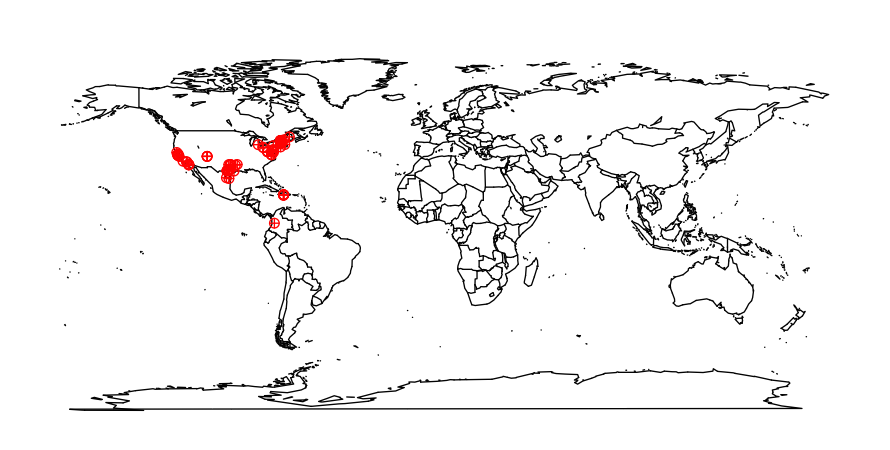
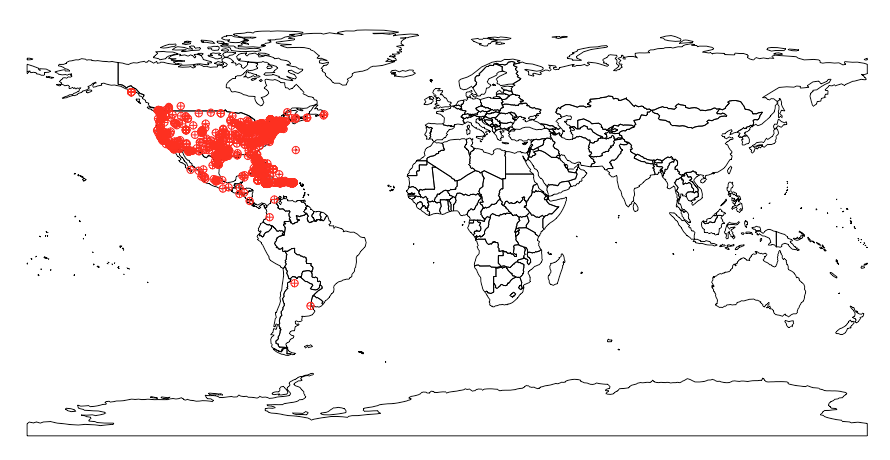
updated spocc blog post from 2014-03-17, ropensci/roweb#163

diff --git a/_posts/2014-03-17-spocc.md b/_posts/2014-03-17-spocc.md
@@ -3,8 +3,7 @@ name: spocc
 layout: post
 title: Species occurrence data
 date: 2014-03-17
-authors:
-  - name: Karthik Ram
+author: Karthik Ram
 tags:
 - R
 - API
@@ -13,6 +12,10 @@ tags:
 - occurrence
 ---
 
+<div class="alert alert-info" role="alert">
+UPDATE: mapping functions are in a separate package now (<a href="https://cran.rstudio.com/web/packages/mapr">mapr</a>). Examples that do mapping below have been updated.
+</div>
+
 The rOpenSci projects aims to provide programmatic access to scientific data repositories on the web. A vast majority of the packages in our current suite retrieve some form of biodiversity or taxonomic data. Since several of these datasets have been georeferenced, it provides numerous opportunities for visualizing species distributions, building species distribution maps, and for using it analyses such as species distribution models. In an effort to streamline access to these data, we have developed a package called Spocc, which provides a unified API to all the biodiversity sources that we provide. The obvious advantage is that a user can interact with a common API and not worry about the nuances in syntax that differ between packages. As more data sources come online, users can access even more data without significant changes to their code. However, it is important to note that spocc will never replicate the full functionality that exists within specific packages. Therefore users with a strong interest in one of the specific data sources listed below would benefit from familiarising themselves with the inner working of the appropriate packages.
 
 
@@ -20,10 +23,10 @@ The rOpenSci projects aims to provide programmatic access to scientific data rep
 
 `spocc` currently interfaces with five major biodiversity repositories. Many of these packages have been part of the rOpenSci suite:
 
-1. Global Biodiversity Information Facility (`rgbif`)  
+1. Global Biodiversity Information Facility (`rgbif`)
 [GBIF](http://www.gbif.org/) is a government funded open data repository with several partner organizations with the express goal of providing access to data on Earth's biodiversity. The data are made available by a network of member nodes, coordinating information from various participant organizations and government agencies.
 
-2. [Berkeley Ecoengine](http://ecoengine.berkeley.edu/) (`ecoengine`)  
+2. [Berkeley Ecoengine](http://ecoengine.berkeley.edu/) (`ecoengine`)
 The ecoengine is an open API built by the [Berkeley Initiative for Global Change Biology](http://globalchange.berkeley.edu/). The repository provides access to over 3 million specimens from various Berkeley natural history museums. These data span more than a century and provide access to georeferenced specimens, species checklists, photographs, vegetation surveys and resurveys and a variety of measurements from environmental sensors located at reserves across University of California's natural reserve system. ([related blog post](http://ropensci.org/blog/2014/01/30/ecoengine/))
 
 3. __iNaturalist__ (`rinat`)
@@ -32,17 +35,16 @@ iNaturalist provides access to crowd sourced citizen science data on species obs
 4. [VertNet](http://vertnet.org/index.php) (`rvertnet`)
 Similar to `rgbif`, ecoengine, and `rbison` (see below), VertNet provides access to more than 80 million vertebrate records spanning a large number of institutions and museums primarly covering four major disciplines (mammology, herpetology, ornithology, and icthyology). __Note that we don't currenlty support VertNet data in this package, but we should soon__
 
-5. [Biodiversity Information Serving Our Nation](http://bison.usgs.ornl.gov/) (`rbison`)  
+5. [Biodiversity Information Serving Our Nation](http://bison.usgs.ornl.gov/) (`rbison`)
 Built by the US Geological Survey's core science analytic team, BISON is a portal that provides access to species occurrence data from several participating institutions.
 
-6. [eBird](http://ebird.org/content/ebird/) (`rebird`)  
+6. [eBird](http://ebird.org/content/ebird/) (`rebird`)
 ebird is a database developed and maintained by the Cornell Lab of Ornithology and the National Audubon Society. It provides real-time access to checklist data, data on bird abundance and distribution, and communtiy reports from birders.
 
-7. [AntWeb](http://antweb.org) (`AntWeb`)  
+7. [AntWeb](http://antweb.org) (`AntWeb`)
 AntWeb is the world's largest online database of images, specimen records, and natural history information on ants. It is community driven and open to contribution from anyone with specimen records, natural history comments, or images. ([related blog post](http://ropensci.org/blog/2014/02/18/antweb/))
 
 __Note:__ It's important to keep in mind that several data providers interface with many of the above mentioned repositories. This means that occurence data obtained from BISON may be duplicates of data that are also available through GBIF. We do not have a way to resolve these duplicates or overlaps at this time but it is an issue we are hoping to address in future versions of the package.
-
 
 
 
@@ -57,6 +59,10 @@ library(spocc)
 ```
 
 
+```r
+library("spocc")
+```
+
 ## Searching species occurrence data
 
 The main workhorse function of the package is called `occ`. The function allows you to search for occurrence records on a single species or list of species and from particular sources of interest or several. The main input is a `query` with sources specified under the argument `from`. So to look at a really simply query:
@@ -68,15 +74,11 @@ results
 ```
 
 ```
-#> Summary of results - occurrences found for:
-#>  gbif  : 25 records across 1 species
-#>  bison :  0 records across 1 species
-#>  inat  :  0 records across 1 species
-#>  ebird :  0 records across 1 species
-#>  ecoengine :  0 records across 1 species
-#>  antweb :  0 records across 1 species
+#> Searched: gbif
+#> Occurrences - Found: 529,471, Returned: 500
+#> Search type: Scientific
+#>   gbif: Accipiter striatus (500)
 ```
-
 
 This returns the results as an S3 class with a slot for each data source. Since we only requested data from `gbif`, the remaining slots are empty. To view the data:
 
@@ -86,53 +88,56 @@ results$gbif
 ```
 
 ```
-#> $meta
-#> $meta$source
-#> [1] "gbif"
+#> Species [Accipiter striatus (500)]
+#> First 10 rows of [Accipiter_striatus]
 #>
-#> $meta$time
-#> [1] "2014-03-16 17:39:31.716 PDT"
+#> Source: local data frame [500 x 117]
 #>
-#> $meta$query
-#> [1] "Accipiter striatus"
-#>
-#> $meta$type
-#> [1] "sci"
-#>
-#> $meta$opts
-#> list()
-#>
-#>
-#> $data
-#> $data$Accipiter_striatus
-#>                  name       key longitude latitude prov
-#> 1  Accipiter striatus 891040018    -97.65   30.158 gbif
-#> 2  Accipiter striatus 891040169   -122.44   37.490 gbif
-#> 3  Accipiter striatus 891035119    -71.73   18.270 gbif
-#> 4  Accipiter striatus 891035349    -72.53   43.132 gbif
-#> 5  Accipiter striatus 891038901    -97.20   32.860 gbif
-#> 6  Accipiter striatus 891048899    -73.07   43.632 gbif
-#> 7  Accipiter striatus 891049443    -99.10   26.491 gbif
-#> 8  Accipiter striatus 891050439    -97.88   26.102 gbif
-#> 9  Accipiter striatus 891043765    -76.64   41.856 gbif
-#> 10 Accipiter striatus 891056214   -117.15   32.704 gbif
-#> 11 Accipiter striatus 891054792    -73.24   44.315 gbif
-#> 12 Accipiter striatus 768992325    -76.10    4.724 gbif
-#> 13 Accipiter striatus 859267562   -108.34   36.732 gbif
-#> 14 Accipiter striatus 859267548   -108.34   36.732 gbif
-#> 15 Accipiter striatus 859267717   -108.34   36.732 gbif
-#> 16 Accipiter striatus 891043784    -73.05   43.605 gbif
-#> 17 Accipiter striatus 891118711   -122.18   37.786 gbif
-#> 18 Accipiter striatus 891116600    -97.32   32.821 gbif
-#> 19 Accipiter striatus 891124493   -117.11   32.632 gbif
-#> 20 Accipiter striatus 891125442   -122.88   38.612 gbif
-#> 21 Accipiter striatus 891127900   -122.36   37.778 gbif
-#> 22 Accipiter striatus 891128609    -97.98   32.761 gbif
-#> 23 Accipiter striatus 891121966    -76.55   38.672 gbif
-#> 24 Accipiter striatus 868487120    -83.83   42.333 gbif
-#> 25 Accipiter striatus 891131416    -72.59   43.853 gbif
+#>                  name  longitude latitude  prov                 issues
+#>                 <chr>      <dbl>    <dbl> <chr>                  <chr>
+#> 1  Accipiter striatus  -97.94314 30.04580  gbif         cdround,gass84
+#> 2  Accipiter striatus -122.40089 37.49201  gbif         cdround,gass84
+#> 3  Accipiter striatus  -97.63810 30.24674  gbif    cdround,cudc,gass84
+#> 4  Accipiter striatus  -81.85267 28.81852  gbif                 gass84
+#> 5  Accipiter striatus -106.31531 31.71593  gbif         cdround,gass84
+#> 6  Accipiter striatus  -97.81493 26.03150  gbif cdround,cucdmis,gass84
+#> 7  Accipiter striatus  -95.50117 29.76086  gbif         cdround,gass84
+#> 8  Accipiter striatus -116.67145 32.94147  gbif         cdround,gass84
+#> 9  Accipiter striatus  -96.91463 32.82949  gbif         cdround,gass84
+#> 10 Accipiter striatus  -75.65139 45.44557  gbif         cdround,gass84
+#> ..                ...        ...      ...   ...                    ...
+#> Variables not shown: key <int>, datasetKey <chr>, publishingOrgKey <chr>,
+#>   publishingCountry <chr>, protocol <chr>, lastCrawled <chr>, lastParsed
+#>   <chr>, extensions <chr>, basisOfRecord <chr>, taxonKey <int>, kingdomKey
+#>   <int>, phylumKey <int>, classKey <int>, orderKey <int>, familyKey <int>,
+#>   genusKey <int>, speciesKey <int>, scientificName <chr>, kingdom <chr>,
+#>   phylum <chr>, order <chr>, family <chr>, genus <chr>, species <chr>,
+#>   genericName <chr>, specificEpithet <chr>, taxonRank <chr>,
+#>   dateIdentified <chr>, coordinateUncertaintyInMeters <dbl>, year <int>,
+#>   month <int>, day <int>, eventDate <date>, modified <chr>,
+#>   lastInterpreted <chr>, references <chr>, identifiers <chr>, facts <chr>,
+#>   relations <chr>, geodeticDatum <chr>, class <chr>, countryCode <chr>,
+#>   country <chr>, rightsHolder <chr>, identifier <chr>, informationWithheld
+#>   <chr>, verbatimEventDate <chr>, datasetName <chr>, verbatimLocality
+#>   <chr>, collectionCode <chr>, gbifID <chr>, occurrenceID <chr>, taxonID
+#>   <chr>, license <chr>, catalogNumber <chr>, recordedBy <chr>,
+#>   http...unknown.org.occurrenceDetails <chr>, institutionCode <chr>,
+#>   rights <chr>, eventTime <chr>, identificationID <chr>, occurrenceRemarks
+#>   <chr>, individualCount <int>, elevation <dbl>, elevationAccuracy <dbl>,
+#>   continent <chr>, stateProvince <chr>, institutionID <chr>, county <chr>,
+#>   identificationVerificationStatus <chr>, language <chr>, type <chr>,
+#>   locationAccordingTo <chr>, preparations <chr>, identifiedBy <chr>,
+#>   georeferencedDate <chr>, higherGeography <chr>, nomenclaturalCode <chr>,
+#>   georeferencedBy <chr>, georeferenceProtocol <chr>, endDayOfYear <chr>,
+#>   georeferenceVerificationStatus <chr>, locality <chr>,
+#>   verbatimCoordinateSystem <chr>, otherCatalogNumbers <chr>, organismID
+#>   <chr>, previousIdentifications <chr>, identificationQualifier <chr>,
+#>   samplingProtocol <chr>, accessRights <chr>, higherClassification <chr>,
+#>   georeferenceSources <chr>, sex <chr>, establishmentMeans <chr>,
+#>   occurrenceStatus <chr>, disposition <chr>, startDayOfYear <chr>,
+#>   dynamicProperties <chr>, infraspecificEpithet <chr>, georeferenceRemarks
+#>   <chr>, and 12 more <...>.
 ```
-
 If you prefer data from more than one source, simply pass a vector of source names for the `from` argument. Example:
 
 
@@ -141,15 +146,12 @@ occ(query = 'Accipiter striatus', from = c('ecoengine', 'gbif'))
 ```
 
 ```
-#> Summary of results - occurrences found for:
-#>  gbif  : 25 records across 1 species
-#>  bison :  0 records across 1 species
-#>  inat  :  0 records across 1 species
-#>  ebird :  0 records across 1 species
-#>  ecoengine :  25 records across 1 species
-#>  antweb :  0 records across 1 species
+#> Searched: ecoengine, gbif
+#> Occurrences - Found: 530,224, Returned: 1,000
+#> Search type: Scientific
+#>   gbif: Accipiter striatus (500)
+#>   ecoengine: Accipiter striatus (500)
 ```
-
 
 We can also search for multiple species across multiple engines.
 
@@ -158,7 +160,6 @@ We can also search for multiple species across multiple engines.
 species_list <- c("Accipiter gentilis", "Accipiter poliogaster", "Accipiter badius")
 res_set <- occ(species_list, from = c('gbif', 'ecoengine'))
 ```
-
 
 Similarly, we can search for data on the Sharp-shinned Hawk from other data sources too.
 
@@ -171,8 +172,7 @@ occ(query = 'Bison bison', from = 'bison')
 occ(query = "acanthognathus brevicornis", from = "antweb")
 ```
 
-
-`occ` is also extremely flexible and can take package specific arguments for any source you might be querying. You can pass these as a list under `pacakge_name_opts` (e.g. `antweb_opts`, `ecoengine_opts`). See the help file for `?occ` for more information.
+`occ` is also extremely flexible and can take package specific arguments for any source you might be querying. You can pass these as a list under `package_name_opts` (e.g. `antweb_opts`, `ecoengine_opts`). See the help file for `?occ` for more information.
 
 
 ## Visualizing biodiversity data
@@ -181,16 +181,17 @@ We provide several methods to visualize the resulting data. Current options incl
 
 __Mapping with Leaflet__
 
+> UPDATE: mapping functions are in a separate package called `mapr`. Eg below updated
+
 
 ```r
 spp <- c("Danaus plexippus", "Accipiter striatus", "Pinus contorta")
-dat <- occ(query = spp, from = "gbif", gbifopts = list(georeferenced = TRUE))
-# occ2df, as the name suggests converts data contained inside an occ class to a R data.frame
-data <- occ2df(dat)
-mapleaflet(data = data, dest = ".")
+dat <- occ(query = spp, from = "gbif", has_coords = TRUE, limit = 50)
+library("mapr")
+map_leaflet(dat)
 ```
 
-![](/assets/blog-images/2014-03-17-spocc/leaflet_map.png)
+![leaflet_map](/assets/blog-images/2014-03-17-spocc/leaflet_map.png)
 
 __Render a geojson file automatically as a GitHub gist__
 
@@ -199,13 +200,13 @@ To have a map automatically posted as a gist, you'll need to set up your GitHub 
 
 ```r
 spp <- c("Danaus plexippus", "Accipiter striatus", "Pinus contorta")
-dat <- occ(query = spp, from = "gbif", gbifopts = list(georeferenced = TRUE))
+dat <- occ(query = spp, from = "gbif", has_coords = TRUE)
 dat <- fixnames(dat)
-dat <- occ2df(dat)
-mapgist(data = dat, color = c("#976AAE", "#6B944D", "#BD5945"))
+library("mapr")
+map_gist(dat, color = c("#976AAE", "#6B944D", "#BD5945"))
 ```
 
-<script src="https://gist.github.com/karthik/9591887.js"></script>
+<script src="https://gist.github.com/sckott/daa7077cf80f2d2fbf2c5a41a9a00836.js"></script>
 
 __Static maps__
 
@@ -214,28 +215,30 @@ If interactive maps aren't your cup of tea, or you prefer to have one that you c
 
 
 ```r
-ecoengine_data <- occ(query = "Lynx rufus californicus", from = "ecoengine")
-mapggplot(ecoengine_data)
+ecoengine_data <- occ(query = "Lynx rufus californicus", from = "ecoengine", has_coords = TRUE)
+map_ggplot(ecoengine_data, map = "usa")
 ```
 
-![](/assets/blog-images/2014-03-17-spocc/ggmap.png)
+![ggplot_maps](/assets/blog-images/2014-03-17-spocc/ggplot.png)
 
 
 
 ```r
 spnames <- c("Accipiter striatus", "Setophaga caerulescens", "Spinus tristis")
-base_data <- occ(query = spnames, from = "gbif", gbifopts = list(georeferenced = TRUE))
-plot(base_data, cex = 1, pch = 10)
+base_data <- occ(query = spnames, from = "gbif", has_coords = TRUE)
+map_plot(base_data, cex = 1, pch = 10)
 ```
 
-
-![](/assets/blog-images/2014-03-17-spocc/base_maps.png)
+![base_maps](/assets/blog-images/2014-03-17-spocc/base_maps.png)
 
 ## What's next?
 
-* As soon as we have an updated rvertnet package, we'll add the ability to query VertNet data from spocc.
-* We will add rCharts as an official import once the package is on CRAN (Eta end of March)
+* As soon as we have an updated `rvertnet` package, we'll add the ability to query VertNet data from spocc.
+* We will add `rCharts` as an official import once the package is on CRAN (Eta end of March)
 * We're helping on a new package rMaps to make interactive maps using various Javascript mapping libraries, which will give access to a variety of awesome interactive maps. We will integrate rMaps once it's on CRAN.
 * We'll add a function to make interactive maps using RStudio's Shiny in a future version.
 
 As always, [issues](https://github.com/ropensci/spocc/issues?page=1&state=open) or [pull requests](https://github.com/ropensci/spocc/pulls) are welcome directly on the [repo](http://ropensci.org/spocc).
+
+
+
